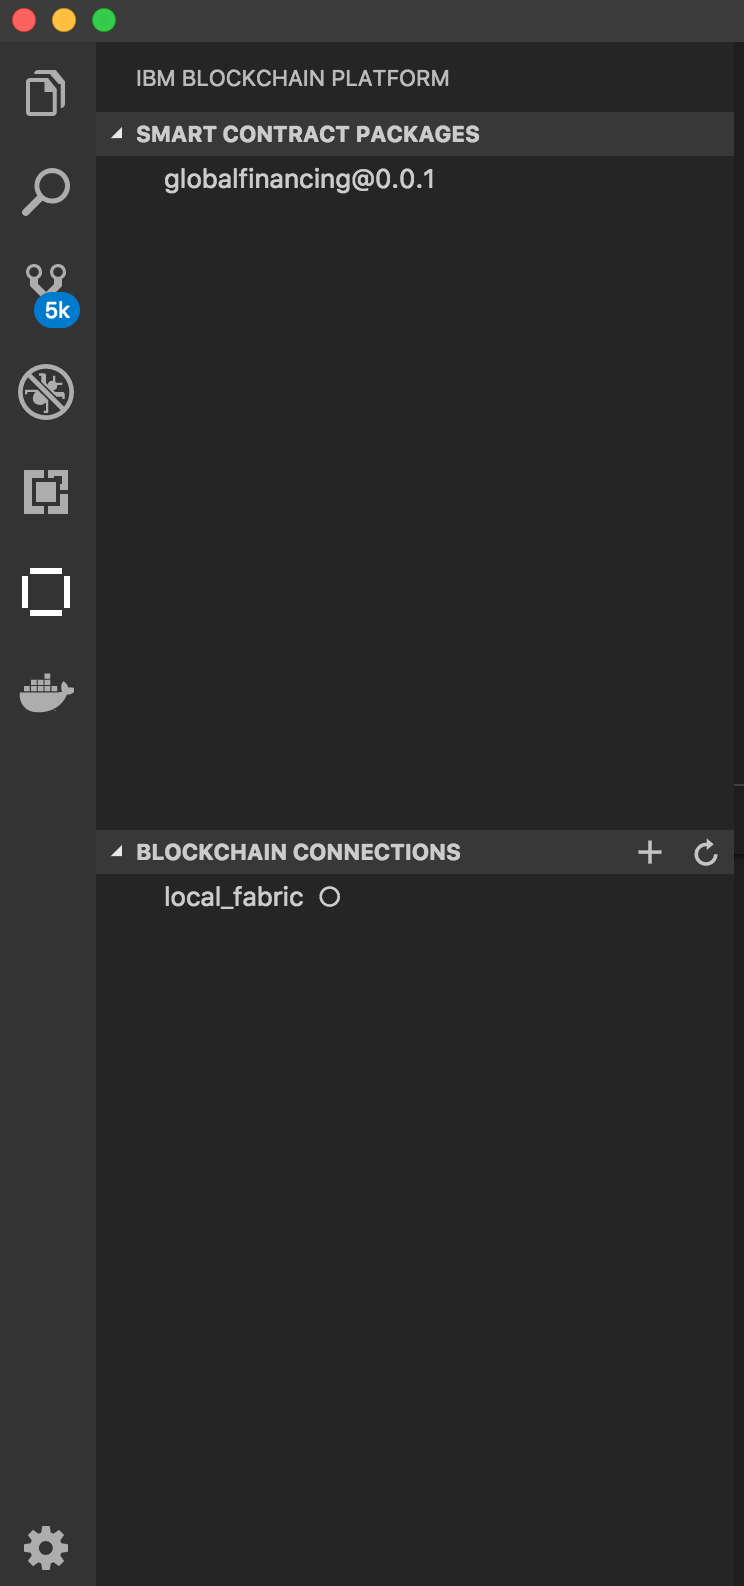
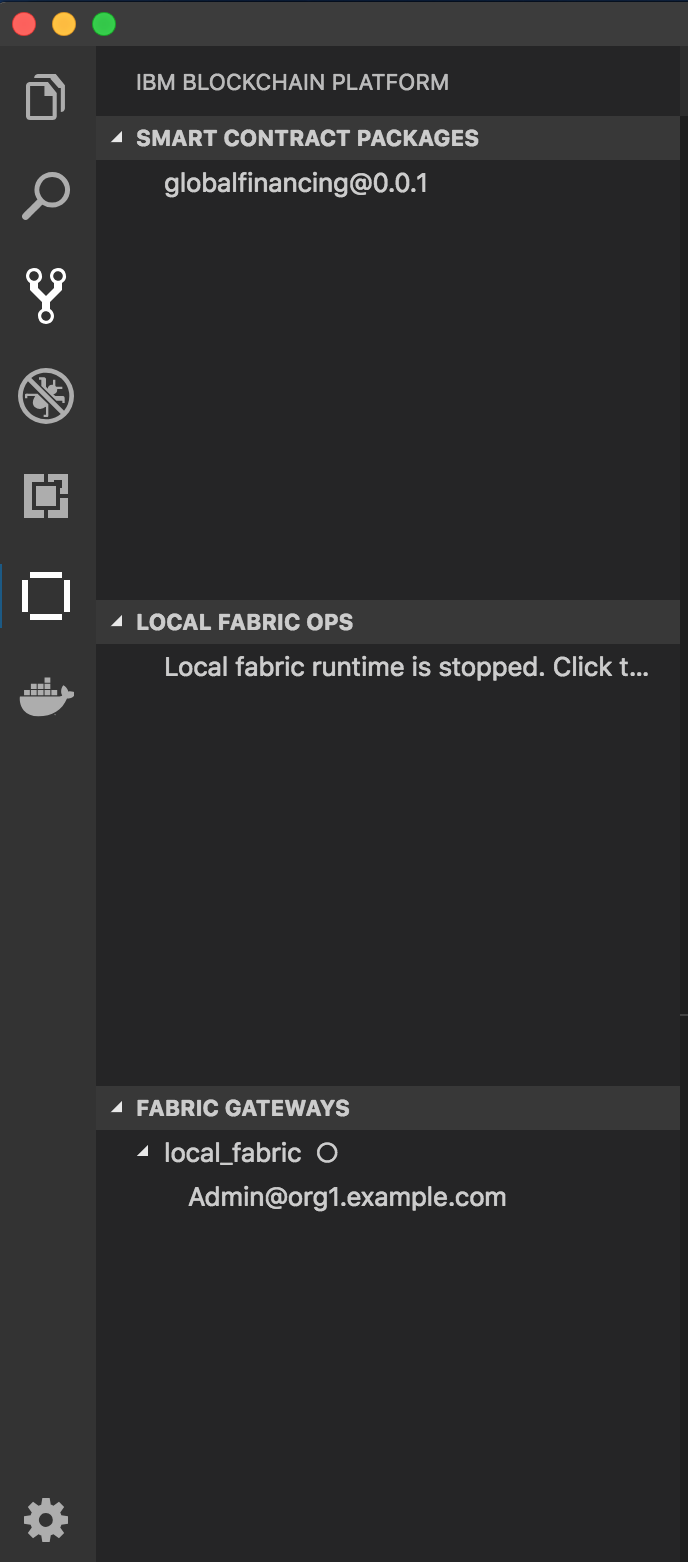
Updated README

diff --git a/README.md b/README.md
@@ -90,23 +90,28 @@ Click the `IBM Blockchain Platform` extension button on the left. This will show
   <img height="500" src="docs/doc-images/ibm-blockchain-extension.png">
 </p>
 
-### Setup local_fabric
+### Setup fabric locally
 
-Click on `local_fabric` to start a network. This will download the Docker images required for a local Fabric setup, and start the network. You should see the output window as the network sets up.
+Click on the menu for `LOCAL FABRIC OPS`, and choose `Start Fabric Runtime` to start a network. This will download the Docker images required for a local Fabric setup, and start the network. You should see the output window as the network sets up.
 
 <p align="center">
-  <img src="docs/doc-images/fabric-setup-output.png">
+  <img src="docs/doc-images/start-fabric.png">
 </p>
 
-Click on `local_fabric` again; it should have a full white circle next to it. This should bring up `mychannel`. You are now ready to install the smart contract.
+You should now see under `LOCAL FABRIC OPS`, options to install and instantiate smart contract, your `Channels` information, your peer under `Nodes` and the organization msp under `Organizations`  You are now ready to install the smart contract.
 
+<p align="center">
+  <img width="300" src="docs/doc-images/fabric-setup-output.png">
+</p>
 
 ### Install and instantiate the smart contract
 
-Click on `mychannel`, then `Peers`. This will display `peer0.org1.example.com`. Right click on it and choose `Install Smart Contract`:
+Click on `+Install` under `Installed` dropdown in the `LOCAL FABRIC OPS` console.
+
+Choose the peer: `peer0.org1.example.com`.
 
 <p align="center">
-  <img width="300" src="docs/doc-images/install-smart-contract.png">
+  <img width="500" src="docs/doc-images/choose-peer.png">
 </p>
 
 Choose the `globalfinancing@0.0.1` contract:
@@ -115,10 +120,20 @@ Choose the `globalfinancing@0.0.1` contract:
   <img width="500" src="docs/doc-images/choose-smart-contract.png">
 </p>
 
-You are now ready to instantiate the smart contract. Right click on `mychannel` and choose `Instantiate Smart Contract`:
+You should see a notification for successful install of the smart contract, and the smart contract listed under `Installed` in your `LOCAL FABRIC OPS` console.
 
 <p align="center">
-  <img width="300" src="docs/doc-images/instantiate-smart-contract.png">
+  <img width="300" src="docs/doc-images/installed-smart-contract.png">
+</p>
+
+
+You are now ready to instantiate the smart contract.
+Click on `+Instantiate` under `Instantiated` dropdown in the `LOCAL FABRIC OPS` console.
+
+Choose the channel: `my channel`.
+
+<p align="center">
+  <img width="500" src="docs/doc-images/choose-channel.png">
 </p>
 
 Choose the `globalfinancing@0.0.1` contract:
@@ -135,7 +150,12 @@ Type in `instantiate` for the function:
 
 You can press **Enter** for optional arguments.  
 
-Once this is successfully instantiated, you should see a successful notification in the output view.
+Once this is successfully instantiated, you should see a successful notification in the output view, and the smart contract listed under `Instantiated` in your `LOCAL FABRIC OPS` console.
+
+<p align="center">
+  <img width="300" src="docs/doc-images/instantiated-smart-contract.png">
+</p>
+
 
 ## 3. Run the application
 
